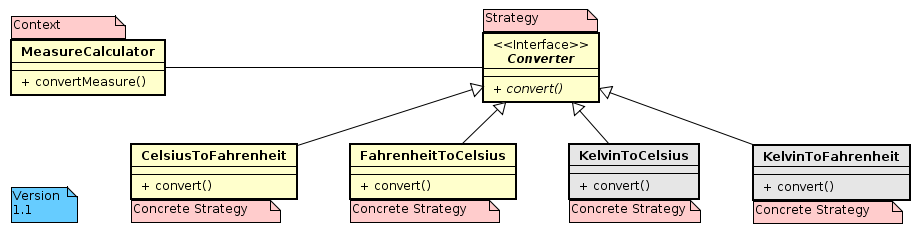
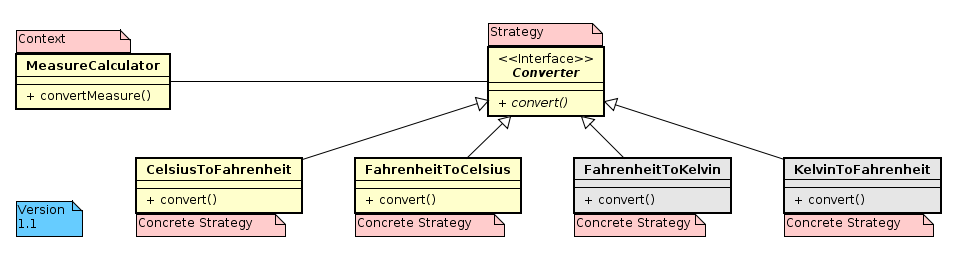
Update README instructions and images

diff --git a/strategy/en_us/README.md b/strategy/en_us/README.md
@@ -1,5 +1,7 @@
 # Strategy
 
+> ![Strategy Pattern](https://raw.githubusercontent.com/tainarareis/DesignPatterns/master/strategy/docs/strategy_v1_0_example.png)
+
 > **Description**: <TODO>
 
 > **Applicability**: <TODO>
@@ -20,13 +22,15 @@
 
 > * Convert a Fahrenheit (American unit) temperature into Celsius (SI derived unit):
 
->> EQUATION IMAGE
+>> ![Fahrenheit to Celsius](https://raw.githubusercontent.com/tainarareis/DesignPatterns/master/strategy/docs/equations/fahrenheit_to_celsius.png)
 
 > * Convert a Celsius (SI derived unit) temperature into Fahrenheit (American Unit):
 
->> EQUATION IMAGE
+>> ![Celsius to Fahrenheit](https://raw.githubusercontent.com/tainarareis/DesignPatterns/master/strategy/docs/equations/celsius_to_fahrenheit.png)
 
 > ### Version 1.1 (Practice)
+
+> ![Strategy Practice](https://raw.githubusercontent.com/tainarareis/DesignPatterns/master/strategy/docs/strategy_v1_1_practice.png)
 
 > **Continuation of the History**: Since Celsius is not the SI unit of temperature, the engineering student wants to convert Celsius and Fahrenheit into Kelvin, and vice-versa, using the **CONVERSIONATOR**.
 
@@ -38,7 +42,7 @@
 
 > * Convert a Kelvin (SI unit) temperature into Fahrenheit (American unit):
 
->> EQUATION IMAGE
+>> ![Kelvin to Fahrenheit](https://raw.githubusercontent.com/tainarareis/DesignPatterns/master/strategy/docs/equations/kelvin_to_fahrenheit.png)
 
 > * Convert a Kelvin (SI unit) temperature into Celsius (SI derived unit):
 
@@ -46,7 +50,7 @@
 
 > * Convert a Fahrenheit (American unit) temperature into Kelvin (SI unit):
 
->> EQUATION IMAGE
+>> ![Fahrenheit to Kelvin](https://raw.githubusercontent.com/tainarareis/DesignPatterns/master/strategy/docs/equations/fahrenheit_to_kelvin.png)
 
 > * Convert a Celsius (SI derived unit) temperature into Kelvin (SI unit):
 
@@ -62,6 +66,8 @@
 
 > ### Versions 2.0 and 3.0 (Challenge)
 
+> ![Strategy Practice](https://raw.githubusercontent.com/tainarareis/DesignPatterns/master/strategy/docs/strategy_v2_v3_challenge.png)
+
 > **Continuation of the History**: Know it is time to make the **CONVERSIONATOR** shine! The exam of Physics is near and the engineering student wants to use the **CONVERSIONATOR** to discover the Thermal Linear Expansion Coefficient. He needs, first, to convert all kind of length measures.
 
 > **The Challenge**: Using your favorite language, implement the new version of the system. Keep in mind that now you have two types of conversion: Temperature and Length. Furthermore, the new feature, which is not about conversion, will need to use all kinds of length and temperature conversions to discover the Thermal Linear Expansion Coefficient. Use all design patterns you learned!
@@ -70,11 +76,11 @@
 
 > * All version 1.1 features;
 
-> * Convert Between each other: Kilometer, Meter, Centimeter, Millimeter, Inch, Feat, Yard, and Mile.
+> * Convert Between each other: Kilometer, Meter, Centimeter, Millimeter, Inch, Feat, Yard, and Mile. (Version 2.0)
 
-> * Calculate the Thermal Linear Expansion Coefficient:
+> * Calculate the Thermal Linear Expansion Coefficient (Version 3.0):
 
->> EQUATION IMAGE
+>> ![Thermal Linear Expansion Coefficient](https://raw.githubusercontent.com/tainarareis/DesignPatterns/master/strategy/docs/equations/thermal_linear_expansion_coefficient.png)
 
 ---
 
